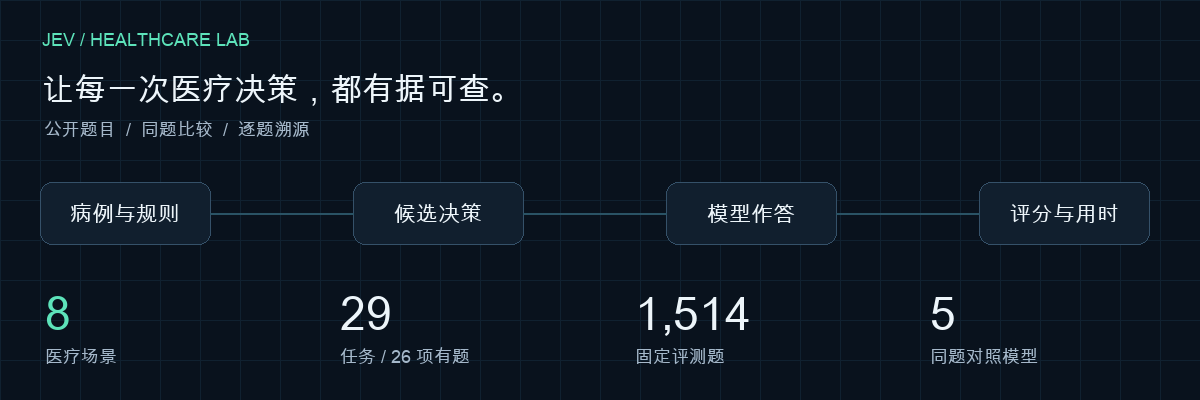
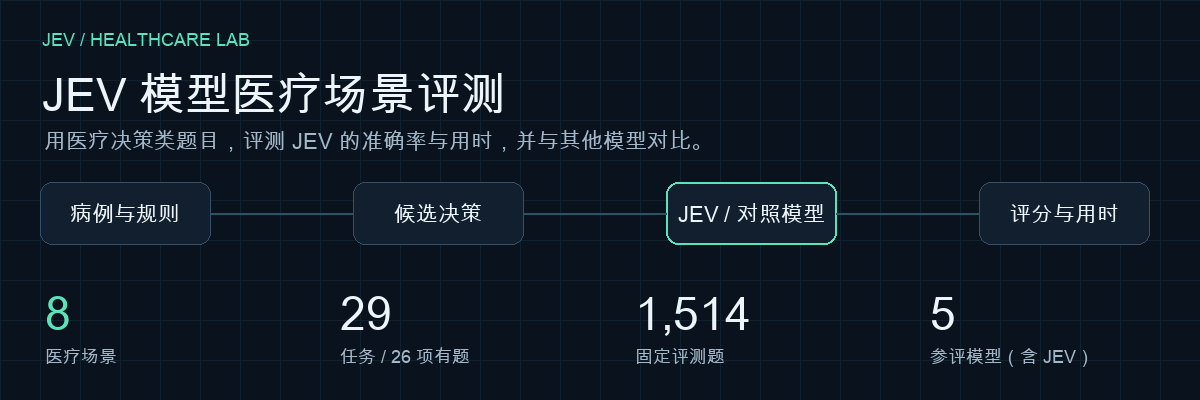
Make the animated cover focus on JEV medical evaluation

diff --git a/scripts/generate_readme_visuals.py b/scripts/generate_readme_visuals.py
@@ -149,17 +149,17 @@ def draw_motion(data, font):
     for y in range(0, 400, 40):
         d.line((0, y, 1200, y), fill='#102130')
     d.text((42, 26), 'JEV / HEALTHCARE LAB', font=fonts[18], fill=GREEN)
-    d.text((42, 66), '让每一次医疗决策，都有据可查。', font=fonts[32], fill=INK)
-    d.text((44, 116), '公开题目  /  同题比较  /  逐题溯源', font=fonts[18], fill=MUTED)
+    d.text((42, 61), 'JEV 模型医疗场景评测', font=fonts[46], fill=INK)
+    d.text((44, 125), '用医疗决策类题目，评测 JEV 的准确率与用时，并与其他模型对比。', font=fonts[22], fill=MUTED)
     xs, y = [125, 438, 751, 1064], 213
-    labels = ['病例与规则', '候选决策', '模型作答', '评分与用时']
+    labels = ['病例与规则', '候选决策', 'JEV / 对照模型', '评分与用时']
     for x, label in zip(xs, labels):
-        d.rounded_rectangle((x-85, y-31, x+85, y+31), radius=12, fill=PANEL, outline='#355169', width=1)
+        d.rounded_rectangle((x-85, y-31, x+85, y+31), radius=12, fill=PANEL, outline=GREEN if 'JEV' in label else '#355169', width=2 if 'JEV' in label else 1)
         d.text((x, y), label, font=fonts[22], fill=INK, anchor='mm')
     for a, b in zip(xs, xs[1:]):
         d.line((a+85, y, b-85, y), fill='#2a5365', width=2)
     stats = [(str(len(data['scenes'])), '医疗场景'), (str(data['defined_tasks']), f"任务 / {data['tested_tasks']} 项有题"),
-             (f"{data['records']:,}", '固定评测题'), (str(len(data['models'])), '同题对照模型')]
+             (f"{data['records']:,}", '固定评测题'), (str(len(data['models'])), '参评模型（含 JEV）')]
     for i, (number, label) in enumerate(stats):
         x = 45 + 295*i
         d.text((x, 280), number, font=fonts[46], fill=GREEN if i==0 else INK)

diff --git a/scripts/generate_catalog_docs.py b/scripts/generate_catalog_docs.py
@@ -351,7 +351,7 @@ def render():
 
     used_tags = sorted({d for f in families for d in f['ability_tags']})
     parts = ['# Jev Healthcare Lab',
-        '![医疗决策评测流程：病例与规则、候选决策、模型作答、评分与用时；8 个场景，29 个任务，26 项有题，1,514 道题，5 个模型](assets/readme/hero-v1.gif)\n\n[查看静态封面](assets/readme/hero-v1.png)',
+        '![JEV 模型医疗场景评测：使用医疗决策类题目比较准确率与用时；8 个场景，29 个任务，26 项有题，1,514 道题](assets/readme/hero-v1.gif)',
         '本项目从公开数据集中筛选并整理医疗决策类题目，用于评测 **JEV 模型在医疗场景中的决策表现**，并与其他模型逐任务比较准确率和完整运行耗时。题目要求模型根据病例、检查结果或规则材料，从给定候选中选择判断或行动。',
         f"评测按 **{len(scenes)} 个医疗场景、{clinical['defined_families']} 个任务**组织：从接诊与分诊、检查与检验、诊断与鉴别，到治疗与用药、住院与护理、出院与随访，并涵盖临床试验筛选和病历与医疗质量控制。",
         f"目前 **{clinical['populated_families']} 个任务有题，共 {clinical['records']:,} 题**（中文 {clinical['languages'].get('zh', 0):,} 题），来自 {len(clinical['sources'])} 个数据来源；另有 {sum(f['status'] == 'empty' for f in families)} 个任务待补。任务另按 {len(used_tags)} 个能力标签标注。全部有题任务计入总分，其中 {sum(f['small_sample'] for f in families)} 个不足 20 题，标记为小样本。" + (f"已完成 {len(comparison['models'])} 个模型的同题评测。" if comparison else '当前尚无模型对比成绩。'),

diff --git a/README.md b/README.md
@@ -1,8 +1,6 @@
 # Jev Healthcare Lab
 
-![医疗决策评测流程：病例与规则、候选决策、模型作答、评分与用时；8 个场景，29 个任务，26 项有题，1,514 道题，5 个模型](assets/readme/hero-v1.gif)
-
-[查看静态封面](assets/readme/hero-v1.png)
+![JEV 模型医疗场景评测：使用医疗决策类题目比较准确率与用时；8 个场景，29 个任务，26 项有题，1,514 道题](assets/readme/hero-v1.gif)
 
 本项目从公开数据集中筛选并整理医疗决策类题目，用于评测 **JEV 模型在医疗场景中的决策表现**，并与其他模型逐任务比较准确率和完整运行耗时。题目要求模型根据病例、检查结果或规则材料，从给定候选中选择判断或行动。
 
